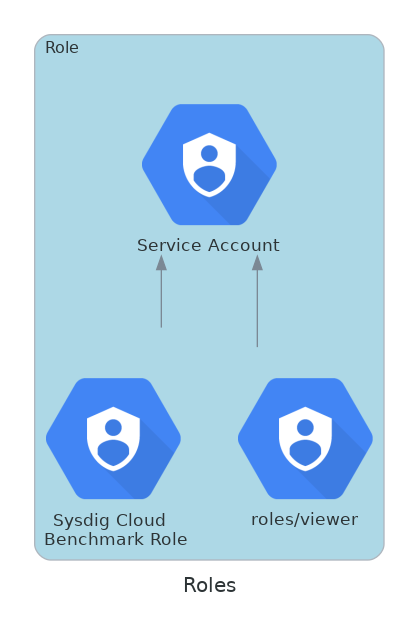
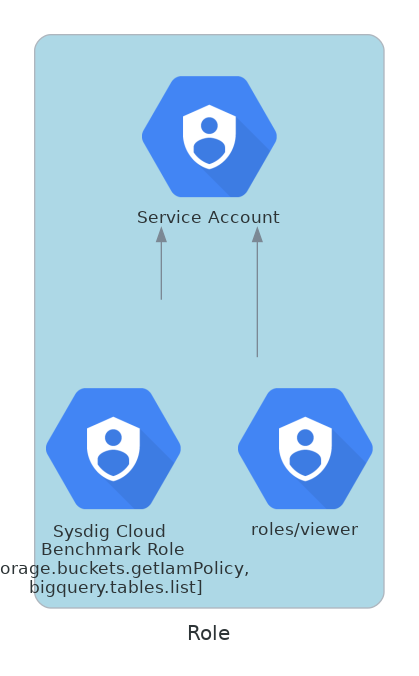
doc: diagram title removed

diff --git a/use-cases/resources/diagram-org-k8s-threat-compliance-roles.py b/use-cases/resources/diagram-org-k8s-threat-compliance-roles.py
@@ -1,6 +1,7 @@
 # diagrams as code vía https://diagrams.mingrammer.com
 from diagrams import Diagram, Cluster
 from diagrams.gcp.security import Iam
+from diagrams.custom import Custom
 
 diagram_attr = {
     "pad": "0.25",
@@ -12,11 +13,11 @@ color_permission = "red"
 color_non_important = "gray"
 color_sysdig = "lightblue"
 
-with Diagram("Roles", graph_attr=diagram_attr, filename="diagram-org-k8s-threat-compliance-roles", show=True, direction="TB"):
+with Diagram("Role", graph_attr=diagram_attr, filename="diagram-org-k8s-threat-compliance-roles", show=True, direction="TB"):
 
-    with Cluster("Role", graph_attr={"bgcolor": "lightblue"}):
+    with Cluster("", graph_attr={"bgcolor": "lightblue"}):
         serviceAccount = Iam("Service Account")
-        sysdigCloudBenchmarkRole = Iam("Sysdig Cloud \n Benchmark Role")
+        sysdigCloudBenchmarkRole = Iam("Sysdig Cloud \n Benchmark Role \n [storage.buckets.getIamPolicy, \n bigquery.tables.list]")
         roleViewer = Iam("roles/viewer")
 
         serviceAccount << sysdigCloudBenchmarkRole
